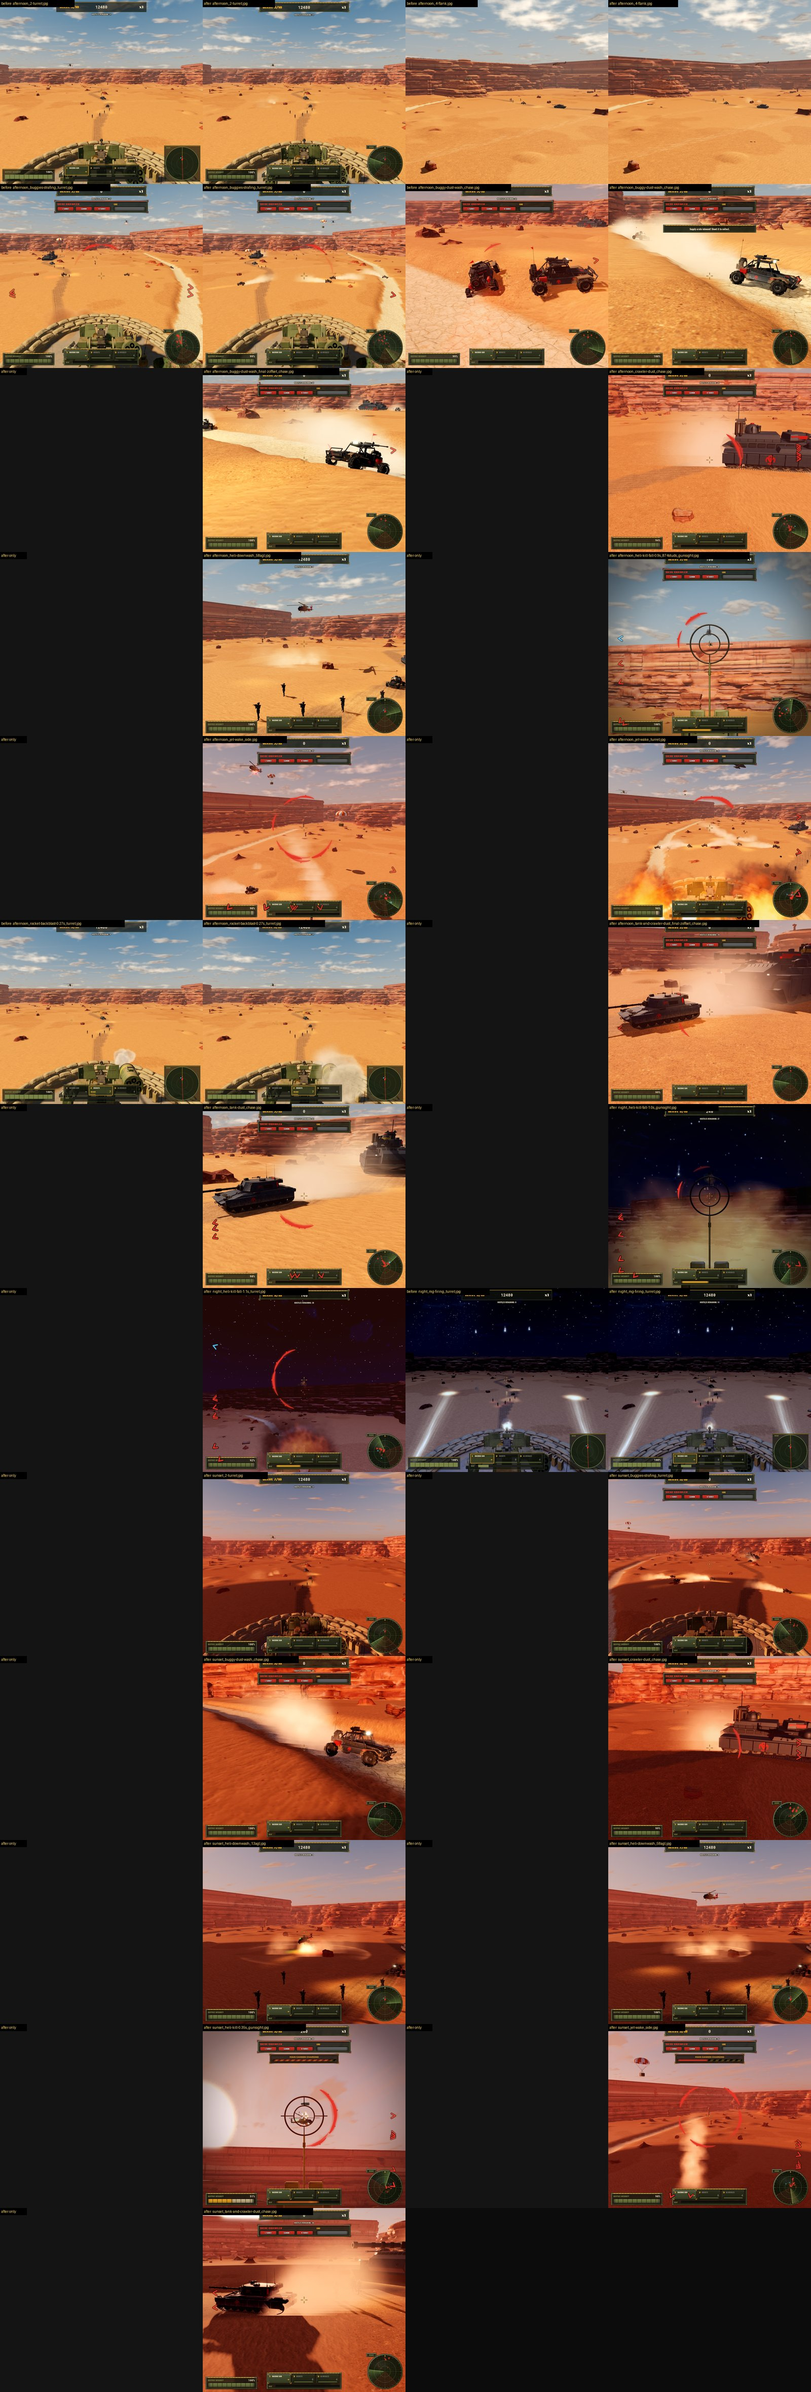
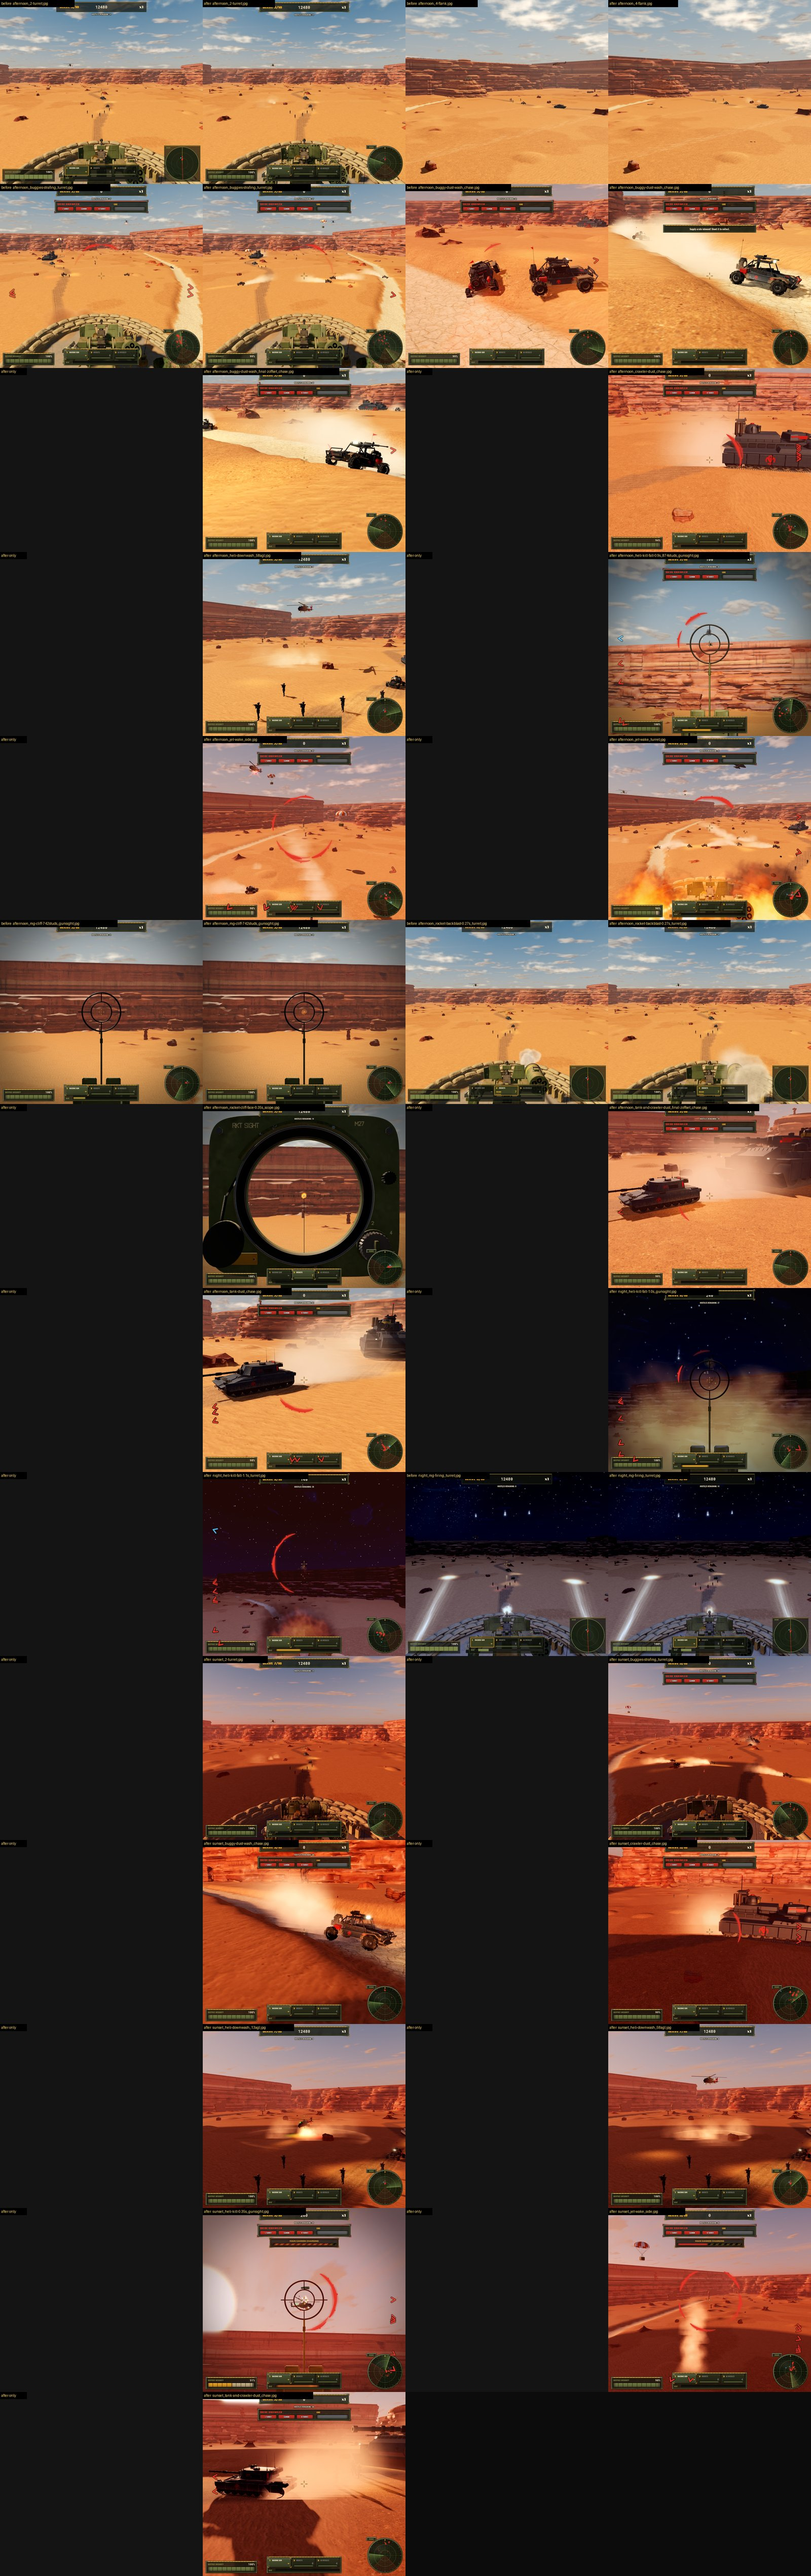
fix(vfx): impacts and rocket blasts on the landscape rock face, not the terrain behind it
ENV's landscape meshes landed; they are CanQuery = false, so the MG effect
ray hits terrain 30-125 studs behind the visible cliff face and the rock
chips were hidden inside the mesh. EffectsSurface.hit makes just the
meshes whose boxes the shot crosses queryable for one synchronous raycast
(restored at once; gameplay and aim rays never see them). MG impacts and
our rockets now burst on the face; the server's later terrain hit no
longer re-explodes inside the rock. Steep terrain counts as rock.
Captures: before/after MG on the left flank wall at 742 studs, rocket.

diff --git a/tools/vfx/README.md b/tools/vfx/README.md
@@ -156,6 +156,7 @@ with `RedMesaDebug:Invoke("beauty", {shot = 2, tod = ...})`, trigger, then
 | Module | What |
 |---|---|
 | `src/client/VehicleFxDust.luau` | motion dust: buggy wheel dust (plume + sand-spurt rooster tail), tank and Siege Crawler track dust (rate from speed), helicopter rotor downwash (radial billows + flat ring, by height above ground), jet wake over the basin floor (by height); tinted by the terrain under each source (sand, road, wash, rock) |
+| `src/client/EffectsSurface.luau` | visible landscape surfaces for effects: the landscape meshes are `CanQuery = false`, so rays hit the terrain 30–125 studs behind the rock you see; `hit(from, to)` makes only the meshes whose boxes the segment crosses queryable for one synchronous raycast (gameplay and aim rays never see it). MG impacts (rock chips) and our rocket blasts land on the rock face |
 | `src/client/EffectsLod.luau` | distance LOD shared by every effect module: `factor` (continuous rate/size multipliers with a cutoff), `count` (one-shot bursts, was `Effects.lod`), `track` (keeps fires, smoke columns and trails on their LOD) |
 
 - **Sources** are the contract names in `docs/ASSET_CONTRACTS.md`: Buggy
